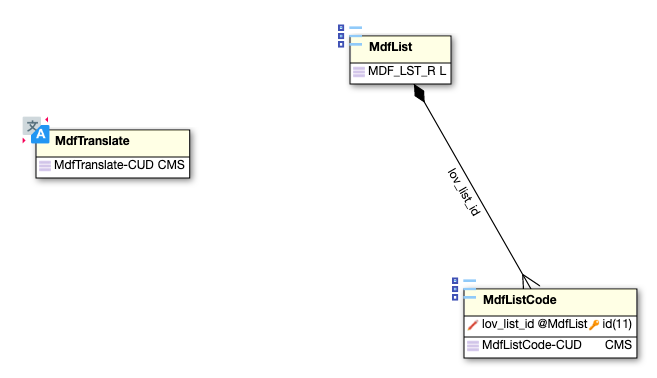
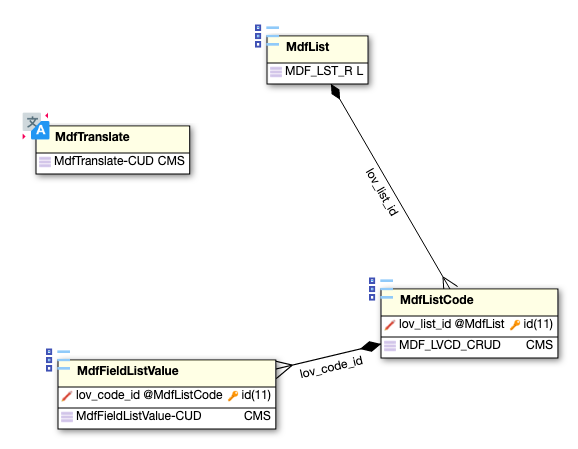
Save changes in specific module

Changed region(s): [[0.0623, 0.582, 0.9965, 0.9894], [0.0311, 0.2328, 0.3426, 0.4947], [0.436, 0.0582, 0.7474, 0.582]]

diff --git a/src/com/simplicite/commons/Modificator/MdfTool.java b/src/com/simplicite/commons/Modificator/MdfTool.java
@@ -10,14 +10,32 @@ import com.simplicite.util.tools.*;
 public class MdfTool implements java.io.Serializable {
 	private static final long serialVersionUID = 1L;
 	
-	public static String getMdfSearchSpec(Grant g){
+	public static void postLoad(ObjectDB obj){
+		obj.setDefaultSearchSpec(getMdfSearchSpec(obj.getGrant()));
+	}
+	
+	public static void preSave(ObjectDB obj){
+		// creates module if not existant
+		String destModuleId = ModuleDB.getModuleId(obj.getGrant().getParameter("MDF_SAVE_MODULE"), true);
+		obj.setFieldValue("row_module_id", destModuleId);		
+	}
+	
+	public static String postSave(){
+		return Message.formatWarning("MDF_WARN_NOTIFY", null, null);
+	}
+	
+	private static String getMdfSearchSpec(Grant g){
 		String visibleModules = g.getParameter("MDF_MODULES");
 		if(Tool.isFalse(visibleModules))
 			return "1=0";
-		else
+		else{
+			List<String> mdl = new ArrayList(Arrays.asList(visibleModules.split(",")));
+			mdl.add(g.getParameter("MDF_SAVE_MODULE"));
+			AppLog.info(mdl.toString(), Grant.getSystemAdmin());
 			return 
 				"t_row_module_id.mdl_name in ('"
-				+ String.join("','", Arrays.asList(visibleModules.split(",")))
+				+ String.join("','", mdl)
 				+ "')";
+		}
 	}
 }

diff --git a/src/com/simplicite/objects/Modificator/MdfFieldListValue.java b/src/com/simplicite/objects/Modificator/MdfFieldListValue.java
@@ -13,12 +13,18 @@ public class MdfFieldListValue extends FieldListValue {
 	
 	@Override
 	public void postLoad() {
-		setDefaultSearchSpec(MdfTool.getMdfSearchSpec(getGrant()));
+		MdfTool.postLoad(this);
 		super.postLoad();
 	}
 	
 	@Override
-	public String postUpdate() {
-		return Message.formatWarning("MDF_WARN_NOTIFY", null, null);
+	public String preSave() {
+		MdfTool.preSave(this);
+		return super.preSave();
+	}
+	
+	@Override
+	public String postSave() {
+		return MdfTool.postSave();
 	}	
 }

diff --git a/src/com/simplicite/objects/Modificator/MdfListCode.java b/src/com/simplicite/objects/Modificator/MdfListCode.java
@@ -14,12 +14,18 @@ public class MdfListCode extends FieldListCode {
 	
 	@Override
 	public void postLoad() {
-		setDefaultSearchSpec(MdfTool.getMdfSearchSpec(getGrant()));
+		MdfTool.postLoad(this);
 		super.postLoad();
 	}
 	
 	@Override
-	public String postUpdate() {
-		return Message.formatWarning("MDF_WARN_NOTIFY", null, null);
+	public String preSave() {
+		MdfTool.preSave(this);
+		return super.preSave();
+	}
+	
+	@Override
+	public String postSave() {
+		return MdfTool.postSave();
 	}
 }

diff --git a/src/com/simplicite/objects/Modificator/MdfTranslate.java b/src/com/simplicite/objects/Modificator/MdfTranslate.java
@@ -14,12 +14,18 @@ public class MdfTranslate extends Translate {
 	
 	@Override
 	public void postLoad() {
-		setDefaultSearchSpec(MdfTool.getMdfSearchSpec(getGrant()));
+		MdfTool.postLoad(this);
 		super.postLoad();
 	}
 	
 	@Override
-	public String postUpdate() {
-		return Message.formatWarning("MDF_WARN_NOTIFY", null, null);
+	public String preSave() {
+		MdfTool.preSave(this);
+		return super.preSave();
+	}
+	
+	@Override
+	public String postSave() {
+		return MdfTool.postSave();
 	}
 }

diff --git a/src/com/simplicite/objects/Modificator/MdfList.java b/src/com/simplicite/objects/Modificator/MdfList.java
@@ -14,12 +14,18 @@ public class MdfList extends FieldList {
 	
 	@Override
 	public void postLoad() {
-		setDefaultSearchSpec(MdfTool.getMdfSearchSpec(getGrant()));
+		MdfTool.postLoad(this);
 		super.postLoad();
 	}
 	
 	@Override
-	public String postUpdate() {
-		return Message.formatWarning("MDF_WARN_NOTIFY", null, null);
+	public String preSave() {
+		MdfTool.preSave(this);
+		return super.preSave();
+	}
+	
+	@Override
+	public String postSave() {
+		return MdfTool.postSave();
 	}
 }
